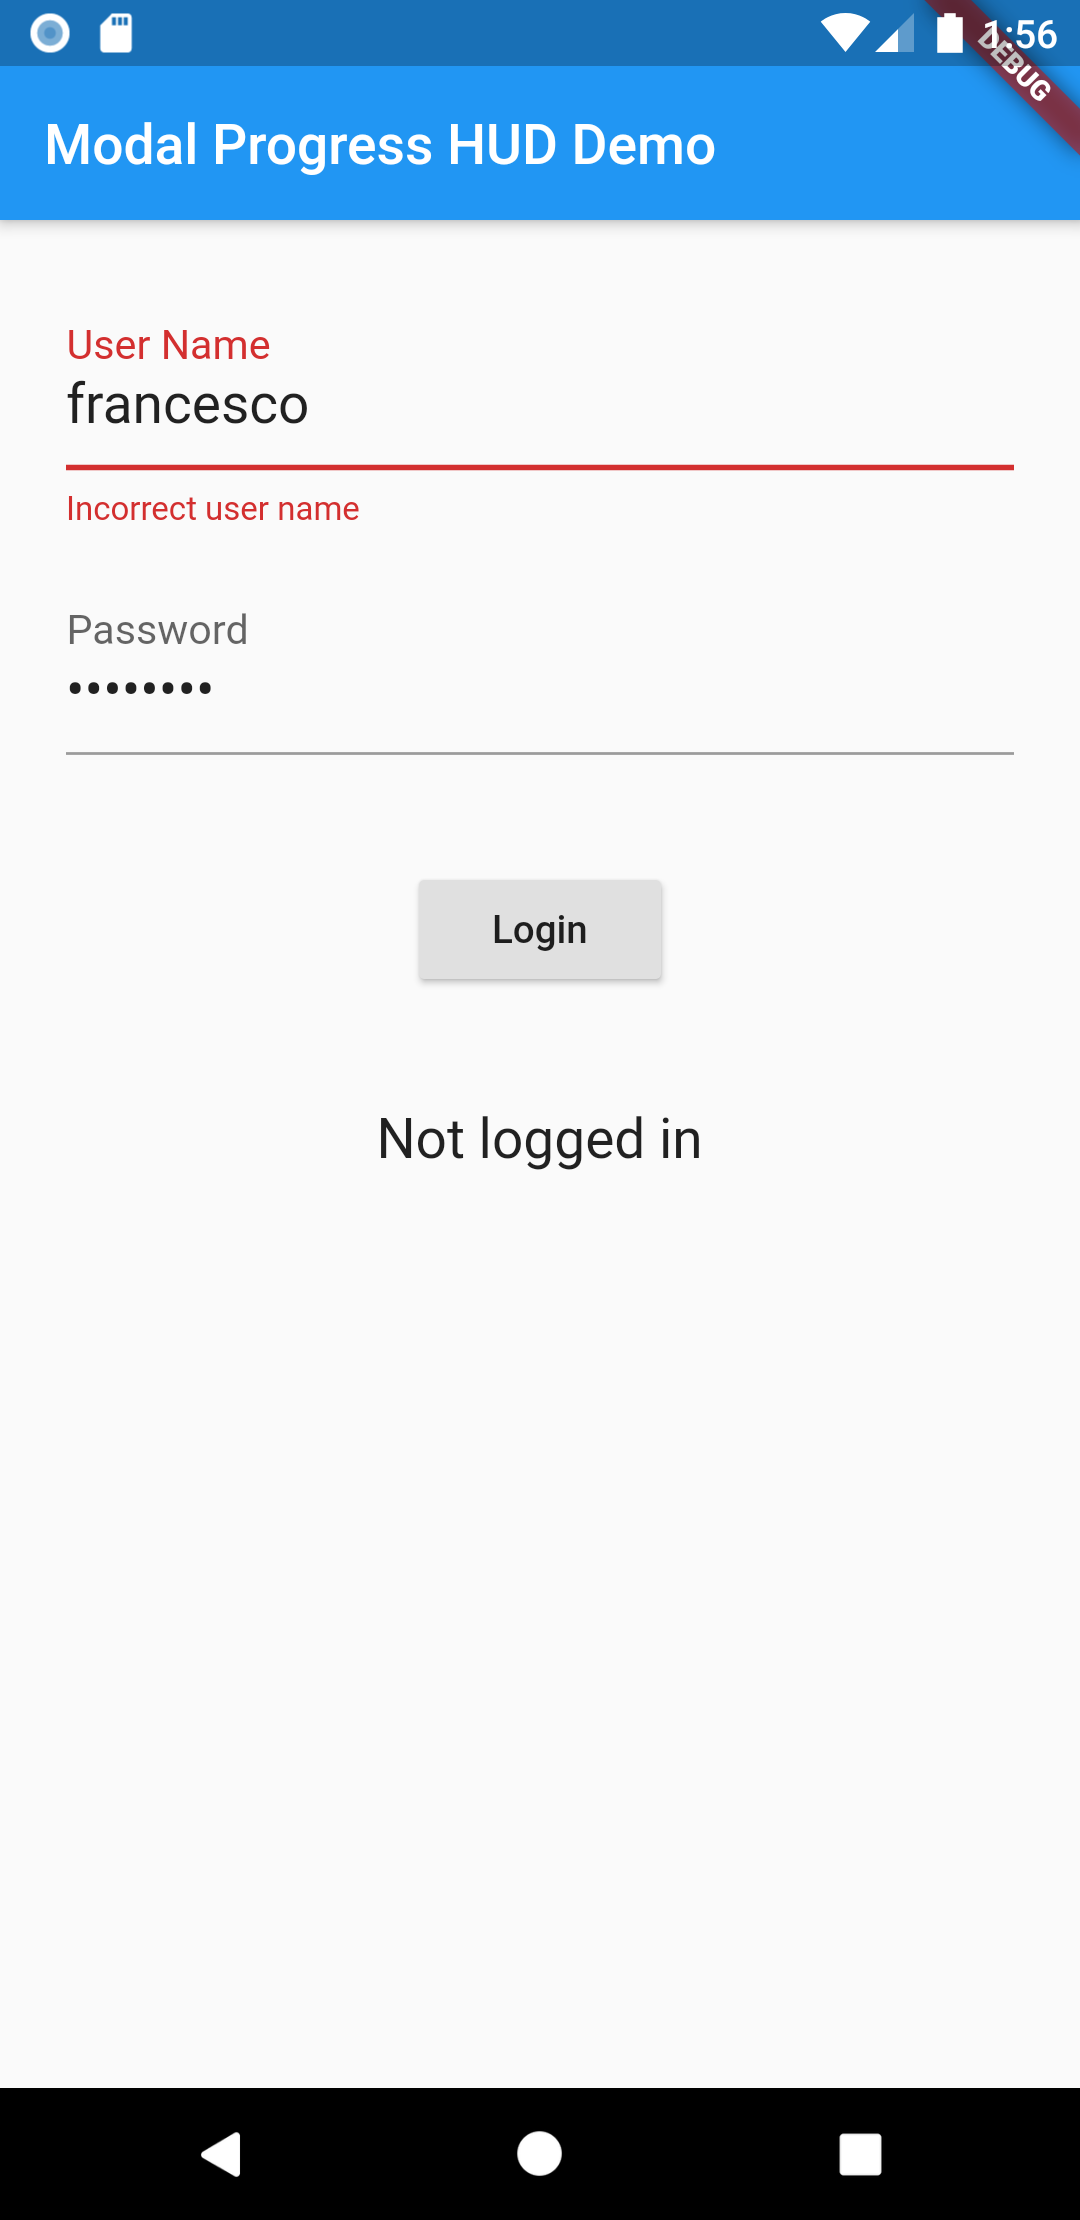
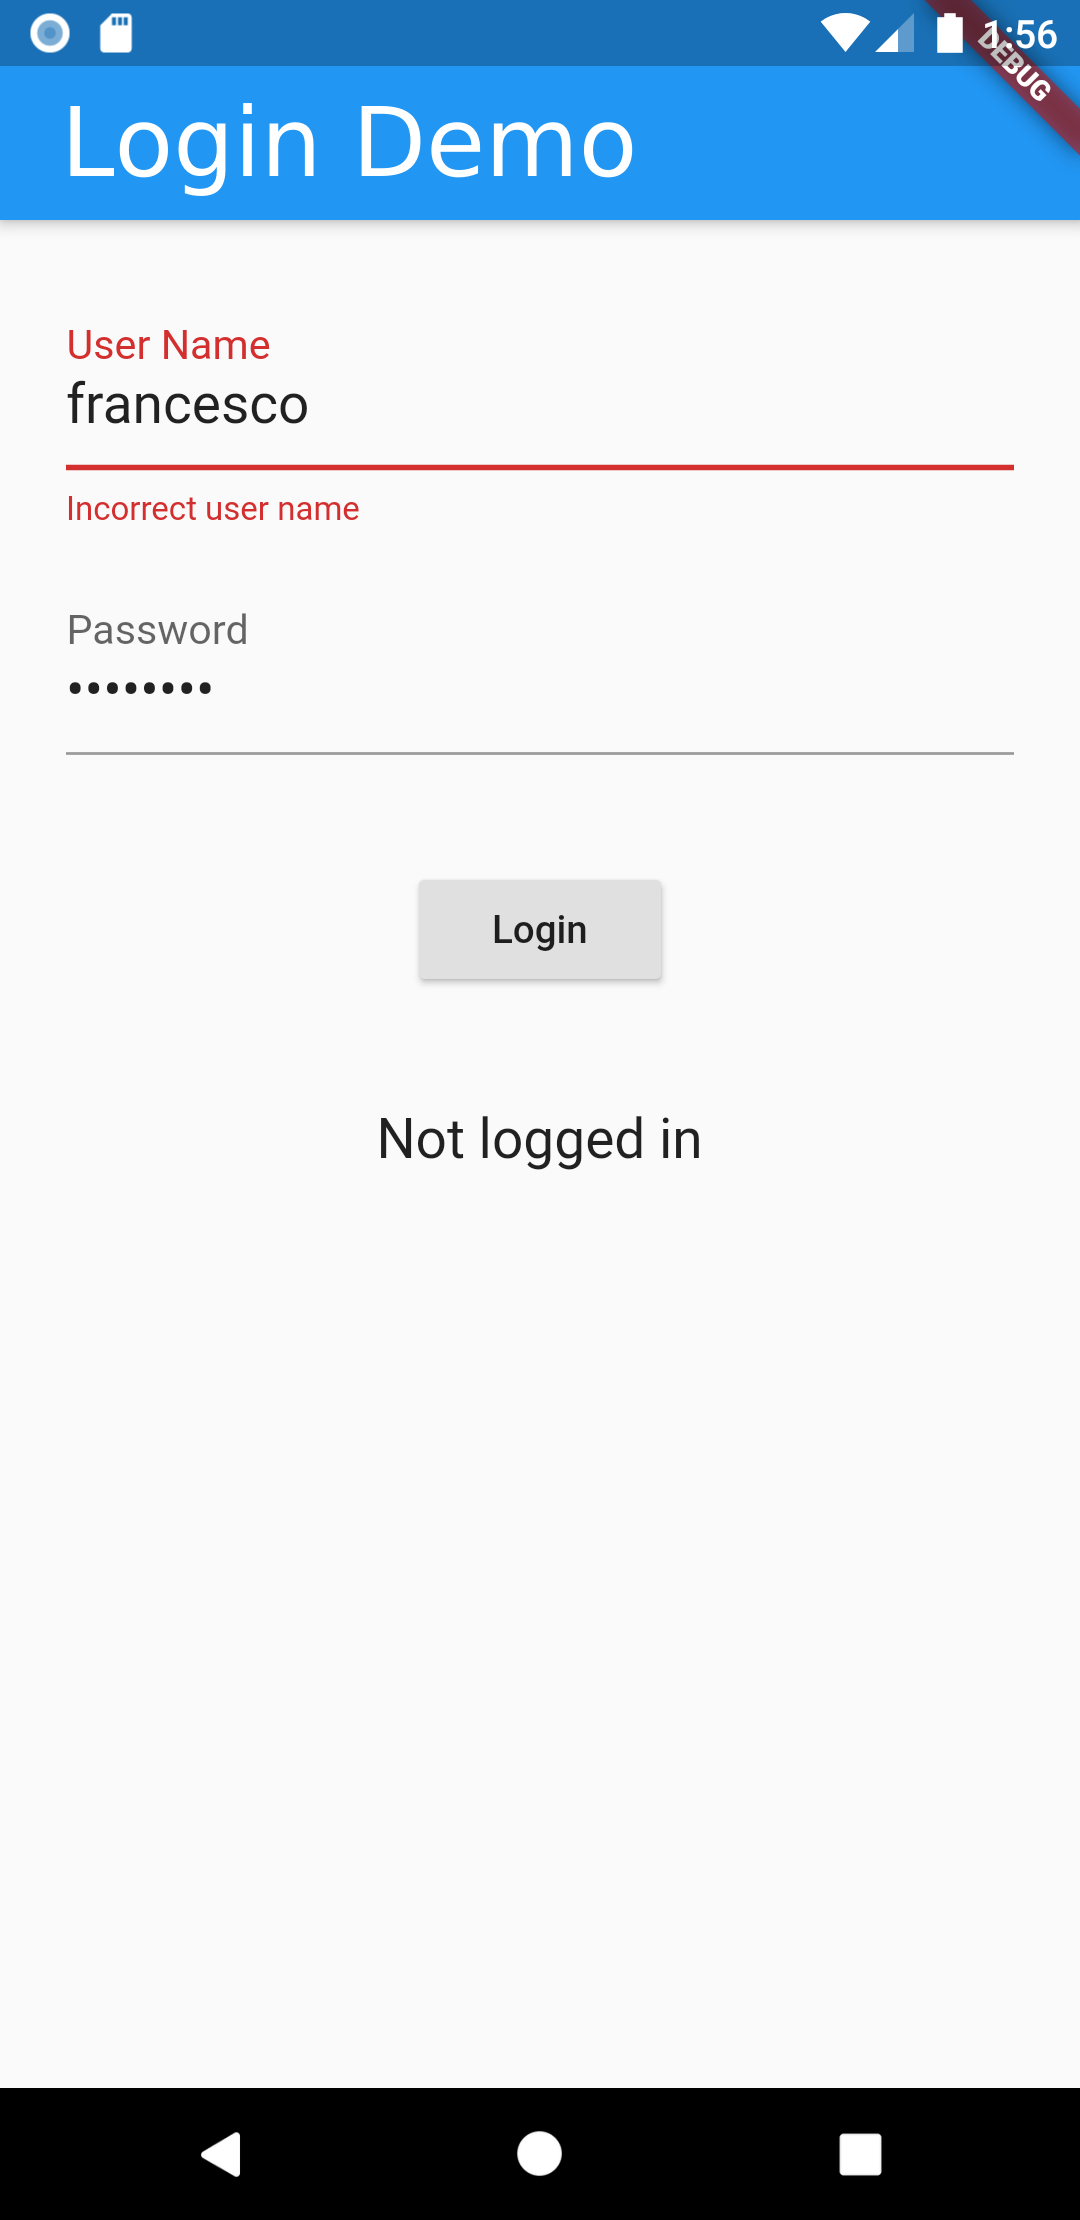
fix screenshot

Changed region(s): [[0.0306, 0.0311, 0.6722, 0.0932]]

diff --git a/lib/main.dart b/lib/main.dart
@@ -120,7 +120,7 @@ class _LoginPageState extends State<LoginPage> {
   Widget build(BuildContext context) {
     return Scaffold(
       appBar: AppBar(
-        title: Text('Modal Progress HUD Demo'),
+        title: Text('Login Demo'),
         backgroundColor: Colors.blue,
       ),
       // display modal progress HUD (heads-up display, or indicator)
